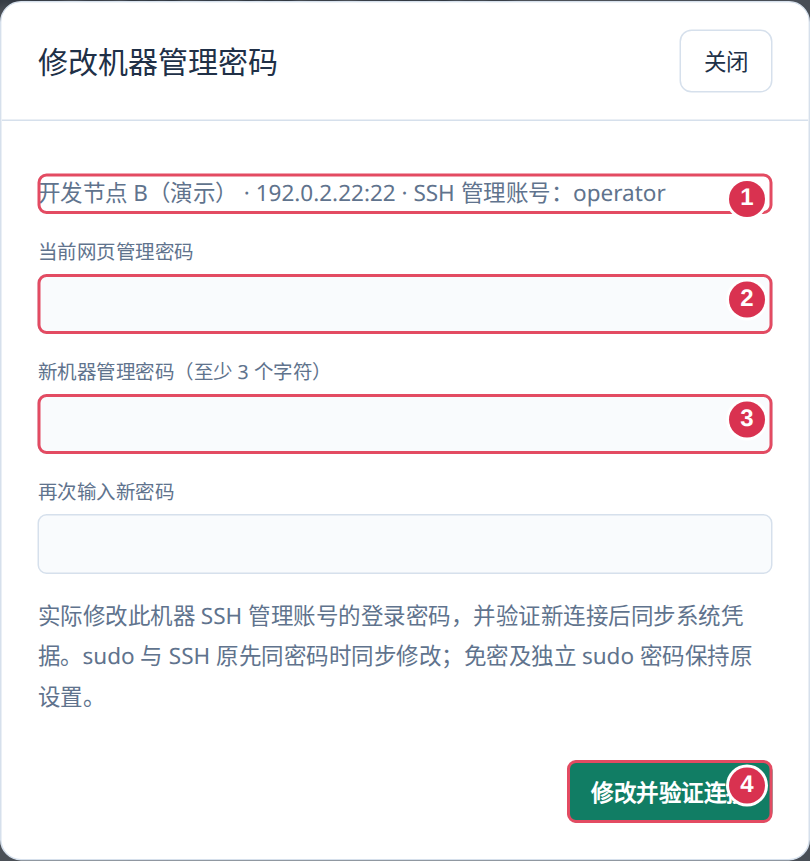
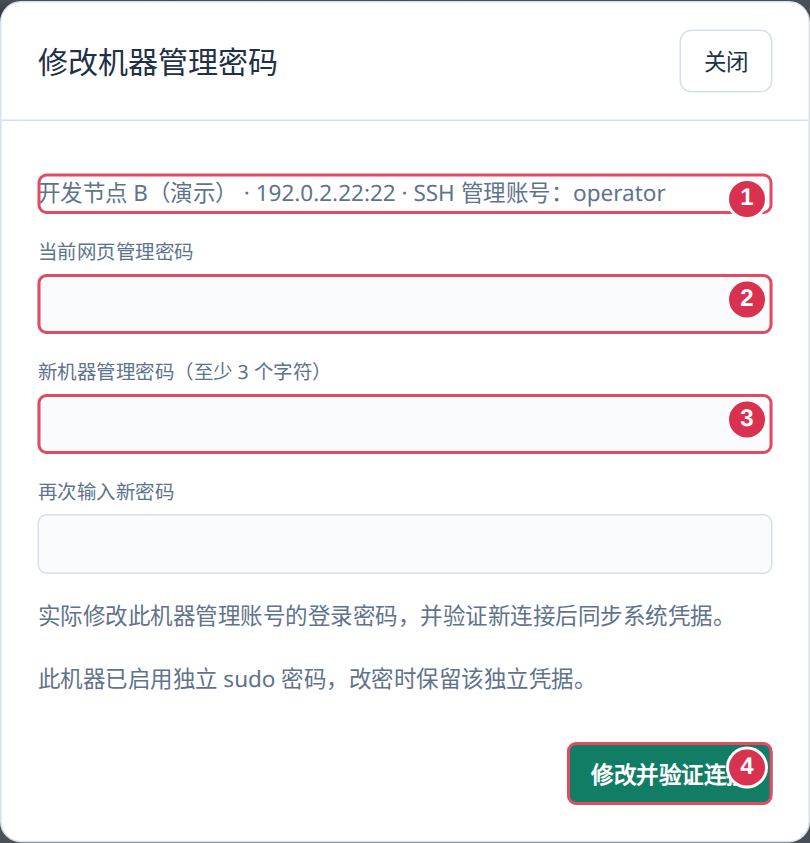
feat: default machine sudo credentials to linked mode; 207 tests pass

diff --git a/src/compute_control/static/app.js b/src/compute_control/static/app.js
@@ -203,7 +203,7 @@ function openMachine(machine) {
     for (const key of ['name', 'host', 'port', 'username', 'archive_root']) form.elements[key].value = machine[key];
     form.elements.available.checked = Boolean(machine.available);
   }
-  Dialogs.open('#machine-dialog');
+  Credentials.machineMode(machine); Dialogs.open('#machine-dialog');
 }
 function openPerson(person) {
   const form = $('#person-form'); form.reset(); form.dataset.personId = person?.id || '';
@@ -247,7 +247,7 @@ $('#machine-info-dialog').addEventListener('close', () => $('#machine-info-conte
 document.querySelectorAll('[data-close]').forEach(node => node.addEventListener('click', () => node.closest('dialog').close()));
 onSubmit('#login-form', async form => { await api('/auth/login', 'POST', { role: state.mode, username: form.elements.username.value.trim(), password: form.elements.password.value }); form.reset(); await boot(); if (state.role === 'applicant') await Portal.pinned(); });
 onSubmit('#person-form', async form => { const data = { name: form.elements.name.value.trim(), quota: form.elements.quota.value === '' ? null : Number(form.elements.quota.value), enabled: form.elements.enabled.checked }; await api('/admin/applicants' + (form.dataset.personId ? '/' + form.dataset.personId : ''), form.dataset.personId ? 'PUT' : 'POST', data); $('#person-dialog').close(); await load(); });
-onSubmit('#machine-form', async form => { const data = Object.fromEntries(new FormData(form)); data.port = Number(data.port); data.available = form.elements.available.checked; await api('/admin/machines' + (form.dataset.machineId ? '/' + form.dataset.machineId : ''), form.dataset.machineId ? 'PUT' : 'POST', data); form.reset(); $('#machine-dialog').close(); await load(); });
+onSubmit('#machine-form', async form => { const data = Object.fromEntries(new FormData(form)); data.port = Number(data.port); data.available = form.elements.available.checked; data.separate_sudo_password = form.elements.separate_sudo_password.checked; await api('/admin/machines' + (form.dataset.machineId ? '/' + form.dataset.machineId : ''), form.dataset.machineId ? 'PUT' : 'POST', data); await load(); form.reset(); $('#machine-dialog').close(); });
 onSubmit('#account-form', async form => { const data = Object.fromEntries(new FormData(form)); if (state.role !== 'admin') delete data.person_id; data.request_key = form.dataset.requestKey; await api('/accounts', 'POST', data); form.reset(); $('#account-dialog').close(); state.tab = 'jobs'; await load(); notify('已提交。若提示等待密码，请先确认 worker 已启动，再在原任务重新输入。'); });
 onSubmit('#password-form', async form => { await api(`/jobs/${form.dataset.jobId}/password`, 'POST', { password: form.elements.password.value }); form.reset(); $('#password-dialog').close(); await load(); });
 $('#development-guide').addEventListener('click', () => Guides.development(false).catch(error => notify(error.message, true)));

diff --git a/src/compute_control/templates/index.html b/src/compute_control/templates/index.html
@@ -41,8 +41,10 @@
     <label>机器名称<input name="name" required maxlength="80"></label>
     <div class="fields"><label>IP 地址<input name="host" required maxlength="64"></label><label>SSH 端口<input name="port" type="number" min="1" max="65535" value="22" required></label></div>
     <label>已有管理用户名<input name="username" required autocomplete="off"></label>
-    <label>SSH 密码<input name="ssh_password" type="password" required autocomplete="new-password"></label>
-    <label>sudo 密码（免密时可留空）<input name="sudo_password" type="password" autocomplete="new-password"></label>
+    <label>管理账号密码（SSH）<input name="ssh_password" type="password" required autocomplete="new-password"></label>
+    <label class="check"><input name="separate_sudo_password" type="checkbox">使用独立 sudo 密码</label>
+    <p class="muted">默认 sudo 使用管理账号密码，改密时同步更新。仅特殊认证配置需要勾选独立密码。</p>
+    <label id="separate-sudo-wrap" hidden>独立 sudo 密码（免密时可留空）<input name="sudo_password" type="password" disabled autocomplete="new-password"></label>
     <label>归档根目录<input name="archive_root" value="/var/lib/compute-control/archives" required></label>
     <label class="check"><input name="available" type="checkbox">能力检查通过后开放申请</label>
     <footer><button type="button" data-close>取消</button><button class="primary" type="submit">检查并添加</button></footer>
@@ -59,7 +61,8 @@
     <label>当前网页管理密码<input name="current_password" type="password" required maxlength="256" autocomplete="current-password"></label>
     <label>新机器管理密码（至少 3 个字符）<input name="new_password" type="password" required minlength="3" maxlength="256" autocomplete="new-password"></label>
     <label>再次输入新密码<input name="confirm_password" type="password" required minlength="3" maxlength="256" autocomplete="new-password"></label>
-    <p class="muted">实际修改此机器 SSH 管理账号的登录密码，并验证新连接后同步系统凭据。sudo 与 SSH 原先同密码时同步修改；免密及独立 sudo 密码保持原设置。</p>
+    <p class="muted">实际修改此机器管理账号的登录密码，并验证新连接后同步系统凭据。</p>
+    <p id="management-password-sudo-mode" class="muted"></p>
     <footer><button class="primary" type="submit">修改并验证连接</button></footer>
   </form></dialog>
   <dialog id="person-dialog"><form id="person-form"><h2>维护申请者</h2>

diff --git a/src/compute_control/static/credentials.js b/src/compute_control/static/credentials.js
@@ -1,6 +1,15 @@
 'use strict';
 // Forms never preload a stored password; closing either form clears every secret input.
 window.Credentials = (() => {
+  function toggleSudoInput() {
+    const form = $('#machine-form'), separate = form.elements.separate_sudo_password.checked;
+    $('#separate-sudo-wrap').hidden = !separate; form.elements.sudo_password.disabled = !separate;
+    if (!separate) form.elements.sudo_password.value = '';
+  }
+  function machineMode(machine) {
+    $('#machine-form').elements.separate_sudo_password.checked = Boolean(machine?.separate_sudo_password);
+    toggleSudoInput();
+  }
   function webButton() {
     return button('修改网页管理密码', () => { $('#web-password-form').reset(); Dialogs.open('#web-password-dialog'); });
   }
@@ -12,6 +21,7 @@ window.Credentials = (() => {
     return button('修改机器管理密码', () => {
       const form = $('#management-password-form'); form.reset(); form.dataset.machineId = machine.id;
       $('#management-password-target').textContent = `${machine.name} · ${machine.host}:${machine.port} · SSH 管理账号：${machine.username}`;
+      $('#management-password-sudo-mode').textContent = machine.separate_sudo_password ? '此机器已启用独立 sudo 密码，改密时保留该独立凭据。' : 'sudo 与管理账号密码同步，改密时两项连接凭据一起更新。';
       Dialogs.open('#management-password-dialog');
     });
   }
@@ -21,6 +31,8 @@ window.Credentials = (() => {
     return data;
   }
   function initialize() {
+    $('#machine-form').elements.separate_sudo_password.addEventListener('change', toggleSudoInput);
+    $('#machine-dialog').addEventListener('close', () => { $('#machine-form').reset(); machineMode(); });
     for (const selector of ['#web-password-dialog', '#management-password-dialog']) {
       $(selector).addEventListener('close', () => $(selector).querySelector('form').reset());
     }
@@ -35,5 +47,5 @@ window.Credentials = (() => {
       form.reset(); $('#management-password-dialog').close(); await load(); notify(result.message, result.state === 'failed');
     });
   }
-  return { initialize, webButton, machineButton };
+  return { initialize, webButton, machineButton, machineMode };
 })();

diff --git a/src/compute_control/services.py b/src/compute_control/services.py
@@ -9,7 +9,7 @@ from pathlib import PurePosixPath
 
 from .account_admin import AccountAdministration
 from .db import encode
-from .management_passwords import ManagementPasswords
+from .management_passwords import ManagementPasswords, machine_credentials, uses_separate_sudo
 from .portal import PortalOperations
 from .security import DomainError, validate_password
 
@@ -116,6 +116,9 @@ class Service(AccountAdministration, PortalOperations, ManagementPasswords):
         for row in rows:
             if session["role"] == "admin":
                 row["management_password_pending"] = row["id"] in pending
+                row["separate_sudo_password"] = uses_separate_sudo(
+                    self.secrets.decrypt(row["credentials"])
+                )
             for secret in ["credentials", "host_key"]:
                 row.pop(secret)
             row["capabilities"] = json.loads(row["capabilities"])
@@ -179,9 +182,7 @@ class Service(AccountAdministration, PortalOperations, ManagementPasswords):
         path = PurePosixPath(data["archive_root"])
         if not path.is_absolute() or ".." in path.parts or str(path) in ["/", "/home"]:
             raise DomainError("归档根目录必须为独立的绝对路径")
-        credentials = self.secrets.encrypt(
-            {key: data[key] for key in ["ssh_password", "sudo_password"]}
-        )
+        credentials = self.secrets.encrypt(machine_credentials(data))
         machine = {key: data[key] for key in ["name", "host", "port", "username", "archive_root"]}
         host = self.remote.identify(data["host"], data["port"])
         machine.update(
@@ -449,9 +450,7 @@ class Service(AccountAdministration, PortalOperations, ManagementPasswords):
             machine,
             **{key: data[key] for key in ["host", "port", "username", "archive_root", "name"]},
         )
-        revised["credentials"] = self.secrets.encrypt(
-            {key: data[key] for key in ["ssh_password", "sudo_password"]}
-        )
+        revised["credentials"] = self.secrets.encrypt(machine_credentials(data))
         report = self.remote.execute(
             revised, "inspect", {"include_logins": True, "include_tools": True}
         )

diff --git a/src/compute_control/management_passwords.py b/src/compute_control/management_passwords.py
@@ -6,6 +6,22 @@ import uuid
 from .security import DomainError, validate_password
 
 
+def uses_separate_sudo(credentials):
+    # Older records have no choice flag: preserve their working authentication setup.
+    return credentials.get(
+        "separate_sudo_password", credentials["sudo_password"] != credentials["ssh_password"]
+    )
+
+
+def machine_credentials(data):
+    separate = data.get("separate_sudo_password", False)
+    return {
+        "ssh_password": data["ssh_password"],
+        "sudo_password": data.get("sudo_password", "") if separate else data["ssh_password"],
+        "separate_sudo_password": separate,
+    }
+
+
 class ManagementPasswords:
     def change_management_password(self, machine_id, password):
         validate_password(password, minimum=3)
@@ -25,8 +41,8 @@ class ManagementPasswords:
         old = self.secrets.decrypt(machine["credentials"])
         if password == old["ssh_password"]:
             raise DomainError("新密码不能与当前机器密码相同")
-        revised = dict(old, ssh_password=password)
-        if old["sudo_password"] == old["ssh_password"]:
+        revised = dict(old, ssh_password=password, separate_sudo_password=uses_separate_sudo(old))
+        if not revised["separate_sudo_password"]:
             revised["sudo_password"] = password
         encrypted = self.secrets.encrypt(revised)
         change_id, now = uuid.uuid4().hex, time.time()

diff --git a/tests/test_browser.py b/tests/test_browser.py
@@ -56,7 +56,6 @@ def test_admin_and_applicant_browser_flow(app):
                 "host": "192.0.2.100",
                 "username": "operator",
                 "ssh_password": "example-password",
-                "sudo_password": "example-password",
             }.items():
                 form.locator(f"input[name={field}]").fill(value)
             form.locator("button[type=submit]").click()
@@ -64,7 +63,6 @@ def test_admin_and_applicant_browser_flow(app):
             page.get_by_role("button", name="管理机器", exact=True).click()
             page.get_by_role("button", name="更新凭据").click()
             form.locator("input[name=ssh_password]").fill("updated-example-password")
-            form.locator("input[name=sudo_password]").fill("updated-example-password")
             form.locator("button[type=submit]").click()
             expect(page.locator("#machine-dialog")).not_to_be_visible()
             target = app.state.db.one("SELECT * FROM machines")

diff --git a/tests/test_management_passwords.py b/tests/test_management_passwords.py
@@ -173,7 +173,9 @@ def test_same_login_and_sudo_password_rotate_together_and_busy_jobs_refuse(app, 
         conn.execute("UPDATE jobs SET state='cancelled' WHERE id=?", (job["id"],))
     assert client.post(url, json=change()).json()["state"] == "verified"
     current = app.state.db.one("SELECT credentials FROM machines WHERE id=?", (target["id"],))
-    assert set(vault.decrypt(current["credentials"]).values()) == {NEW_PASSWORD}
+    saved = vault.decrypt(current["credentials"])
+    assert saved["ssh_password"] == saved["sudo_password"] == NEW_PASSWORD
+    assert saved["separate_sudo_password"] is False
 
 
 def test_invalid_existing_credentials_do_not_reserve_change_or_leak_errors(app, client):

diff --git a/src/compute_control/models.py b/src/compute_control/models.py
@@ -49,7 +49,8 @@ class Machine(Target):
     name: str = Field(min_length=1, max_length=80)
     username: str = Field(pattern=r"^[a-zA-Z_][a-zA-Z0-9_-]{0,63}$")
     ssh_password: SecretStr
-    sudo_password: SecretStr
+    sudo_password: SecretStr = SecretStr("")
+    separate_sudo_password: bool = Field(default=False, strict=True)
     # Accepted for older clients; enrollment obtains the key on the server.
     fingerprint: str | None = Field(default=None, pattern=r"^SHA256:[A-Za-z0-9+/]{43}$")
     archive_root: str = "/var/lib/compute-control/archives"

diff --git a/tests/conftest.py b/tests/conftest.py
@@ -109,6 +109,7 @@ def machine(app, host="192.0.2.1", available=True):
             "username": "operator",
             "ssh_password": "example-ssh-credential",
             "sudo_password": "example-sudo-credential",
+            "separate_sudo_password": True,
             "fingerprint": "SHA256:" + "A" * 43,
             "archive_root": "/var/lib/compute-control/archives",
             "available": available,

diff --git a/docs/records/2026-11-05-explicit-sudo-password-mode.md b/docs/records/2026-11-05-explicit-sudo-password-mode.md
@@ -1,0 +1,16 @@
+# 管理账号默认同步 sudo 密码
+
+- 录入机器默认只填写管理账号登录密码，同时作为 sudo 连接凭据；显式勾选“使用独立 sudo 密码”才展示第二项，免密可留空。
+- 录入及更新凭据在连接检查前统一处理模式，成功核验机器身份后保存加密凭据与明确选择；失败不覆盖原设置。
+- 管理改密遵循保存的模式：默认同步 SSH/sudo，独立模式保留 sudo，即使两项当前相同也不自行合并。
+- 旧数据缺少标记时保留原认证方式：两项相同视为同步，不同视为独立；只读展示不改库，成功更新或改密后保存明确模式。
+- 管理员可见模式，申请者不获取该配置或凭据；表单不预填秘密，取消独立模式或关闭表单清空输入。
+- 保存成功后先更新机器状态再关闭表单，避免紧接着打开改密窗口时显示旧模式。
+- 通用管理员指南补充规则和录入截图，改密配图更新；图片均来自隔离数据库与 FakeRemote，不使用真实连接或用户数据。
+- RED：新增 10 项用例先失败，覆盖默认录入、显式模式、相同密码的独立模式、更新失败保护、旧记录与浏览器交互。
+- GREEN：全部 207 项测试通过；Ruff、格式、JavaScript 语法、差异及文档登记检查通过。
+- 构建后的 Python 3.12 安装包通过实际 HTTP 与受信本地 HTTPS 的启动、登录、Cookie、CSRF 和指南检查。
+- 公开文件、可达历史及构建包通过已知私密材料检查；内部教程、真实拓扑和凭据不进入公开提交或发行包。
+- 已部署到独立程序目录，切换前备份状态与密钥；仅重启 Web，worker 保持运行，原机器凭据及网页密码哈希未改动。
+- 线上只读浏览器验证现有机器均采用同步模式；桌面/手机的新建与更新表单、改密说明、指南和图片通过，未提交机器修改。
+- 实际远端改密未在生产执行；本次改密分支使用模拟远端验证。

diff --git a/docs/ADMIN_GUIDE.md b/docs/ADMIN_GUIDE.md
@@ -32,6 +32,10 @@
 3. 用专用测试账号验收创建、登录及回收，再开放申请。接入不自动接管旧账号、不改旧密码，也不停止进程。
 4. 每台卡片点“管理机器”，集中查看申请开关、机器账号与 sudo 权限、更新凭据、管理账号改密及重启。
 
+![接入机器：默认共用管理账号密码，特殊配置才勾选独立 sudo 密码](../src/compute_control/static/guide-images/admin-machine.png)
+
+默认 sudo 与管理账号密码同步，只填一份密码。特殊配置勾选“使用独立 sudo 密码”后再填写第二项；免密时可留空。更新凭据时会保留已选模式，也可明确调整并验证保存。
+
 “关闭申请”只阻止新申请，不停止已有工作。监控按配置周期采集；要新数据先“申请刷新”，完成后“更新显示”。历史折线只画有效采样，过期不代表空闲。系统开发工具检测不自动安装。
 
 ## 账号台账、接管与 sudo 权限
@@ -59,7 +63,7 @@
 
 ![机器管理密码：核对目标账号，确认后修改并验证连接](../src/compute_control/static/guide-images/admin-management-password.png)
 
-SSH/sudo 原先同密码时一起同步；免密或独立 sudo 密码保持原设置。“更新凭据”仅检查并保存已经另行修改的连接资料，与实际改密不同。
+未勾选独立 sudo 时，改密会同步更新 SSH/sudo 两项连接凭据；已勾选时保留独立 sudo 凭据，即使两项当前恰好相同也按该选择处理。“更新凭据”仅检查并保存已经另行修改的连接资料，与实际改密不同。
 
 结果不明时使用“核查管理密码变更”，保留加密候选，不重复改密；有未完成平台任务时先处理原任务。人员停用或移出后才可显式查看其留存的普通账号密码，查看有审计；未保存的旧密码无法还原。
 

diff --git a/ARCHITECTURE.md b/ARCHITECTURE.md
@@ -13,7 +13,7 @@
 | 数量限制 | 不设机器数量上限；实际采集能力受控制主机与网络影响 |
 | 访问入口 | 浏览器访问 IP 和端口，默认申请者姓名页面，姓名窗口右上角按钮切换管理员模式 |
 | 管理员身份 | 控制台维护一个管理员账号和密码 |
-| 机器凭据 | 每台机器分别保存已有 SSH 管理账号、SSH 密码和 sudo 密码 |
+| 机器凭据 | 每台机器保存已有 SSH 管理账号；默认 SSH/sudo 密码同步，显式勾选才使用独立 sudo 密码 |
 | 申请者身份 | 管理员预先维护姓名名单，申请者只输入姓名进入，不需要管理密码 |
 | 开通流程 | 姓名入名单即代表审核通过，提交用户名和密码后立即执行创建 |
 | 个人额度 | 默认每人跨所有机器共 3 个有效账号，管理员可调整默认额度或个人额度 |
@@ -109,7 +109,7 @@ SQLite 适合初期单控制主机部署；若使用 WAL，数据库必须位于
 
 ## 5. 机器添加与凭据
 
-添加表单包含：显示名称、IP、SSH 端口（默认 22）、管理员用户名、SSH 密码、sudo 密码、归档根目录、是否开放申请。SSH 与 sudo 密码独立存储，可勾选相同后填入，但不能假设始终相同。
+添加表单包含：显示名称、IP、SSH 端口（默认 22）、管理用户名、管理账号密码、归档根目录、是否开放申请。默认 sudo 使用管理账号密码并随改密同步；显式勾选“使用独立 sudo 密码”才展示第二项，免密时可留空。该选择随凭据加密保存，更新凭据可调整，管理改密遵循已保存的选择，不再按两项当前值是否相等决定。旧记录缺少选择时按原两项是否不同兼容其工作模式，成功更新或改密后保存明确模式；任何凭据替换仍须通过连接和机器身份核验。
 
 接入流程：
 
